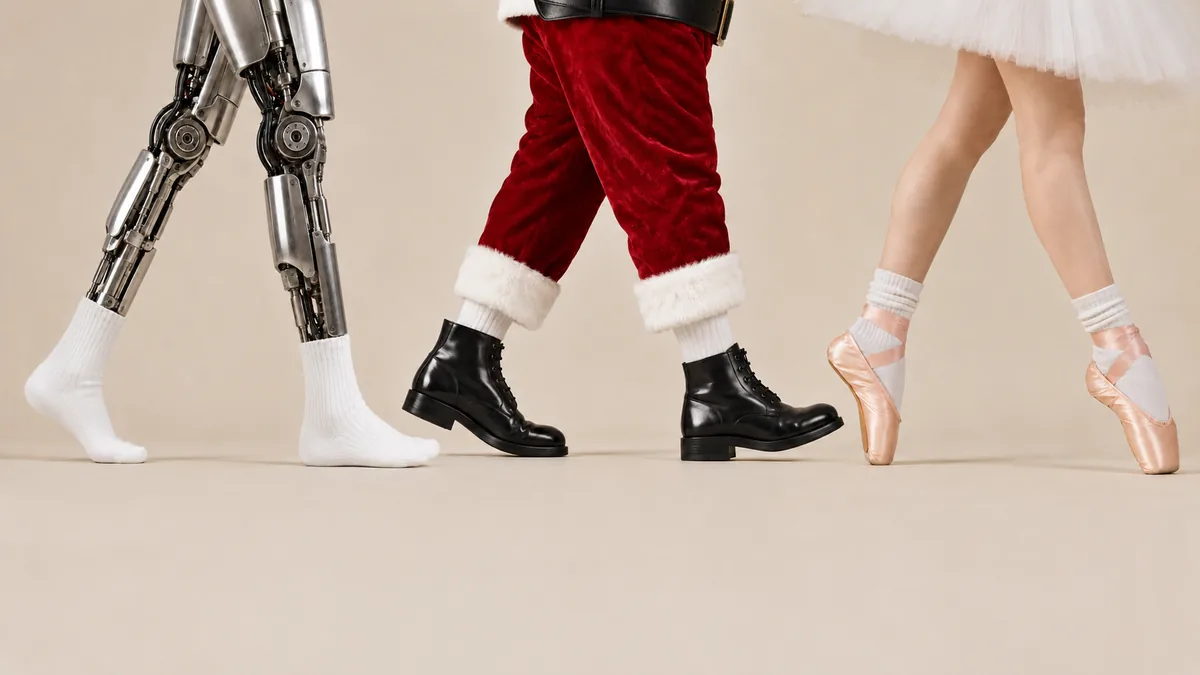
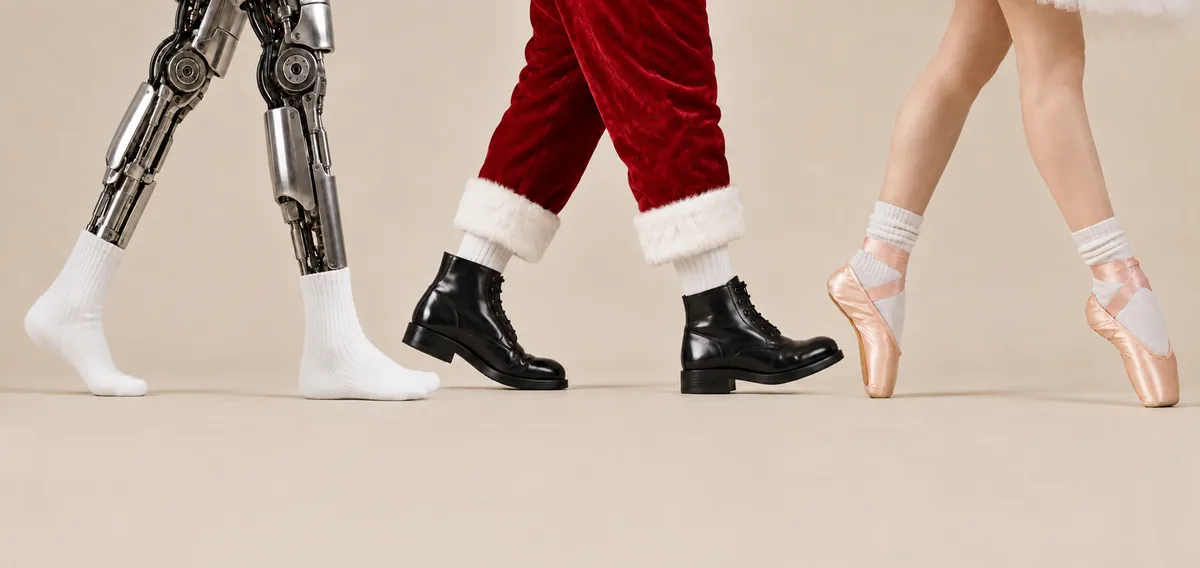
Tighten the cameo crop and fade its bottom edge instead
Trimmed the strip's vertical whitespace (10% headroom, 6% floor) and
switched the side fades to a bottom dissolve so the floor melts into
the cream.

https://claude.ai/code/session_01PYCujJw1fMp43LAktiie2H

diff --git a/src/components/ShopCta.tsx b/src/components/ShopCta.tsx
@@ -93,9 +93,9 @@ export default function ShopCta() {
             className="w-full"
             style={{
               maskImage:
-                'linear-gradient(to right, transparent, black 12%, black 88%, transparent)',
+                'linear-gradient(to bottom, black 70%, transparent 100%)',
               WebkitMaskImage:
-                'linear-gradient(to right, transparent, black 12%, black 88%, transparent)',
+                'linear-gradient(to bottom, black 70%, transparent 100%)',
               mixBlendMode: 'multiply',
             }}
           />
